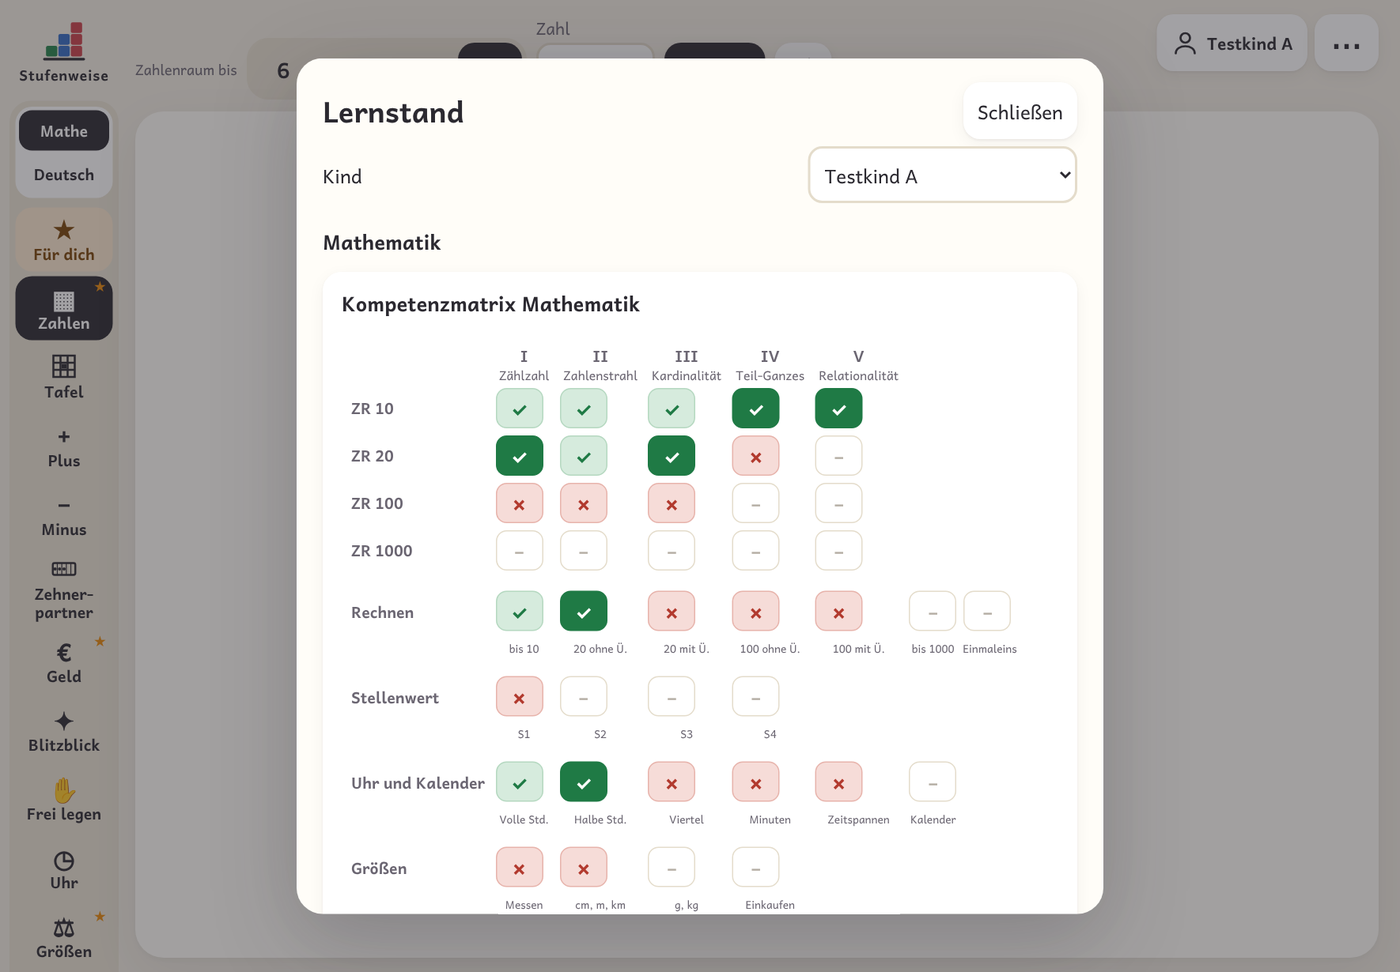
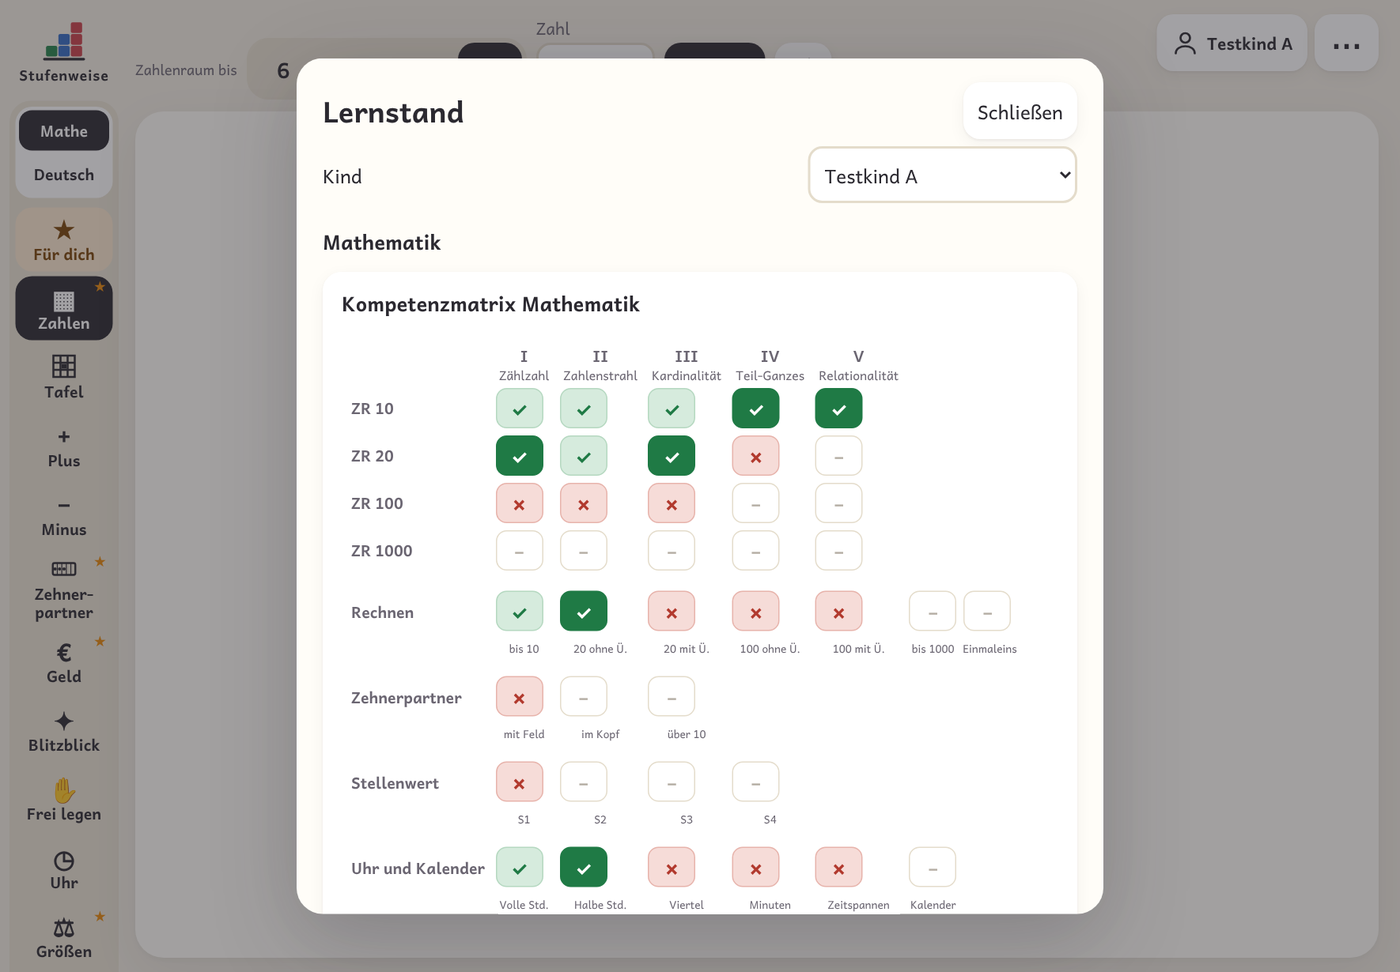
0.21.0: Zehnerpartner im Test und Lernstand, Arbeitsblatt-Einstellungen merken
- Zehnerpartner Z1–Z3 als eigene Zeile im Lernstand: im Mathe-Test (Teil 1)
  geprüft, solange R3 nicht sicher ist; R3 erreicht → Zehnerpartner abgeleitet
  erreicht. Förderzone, Material-Weg, ILEB-Text, Lernlandkarte, Bericht,
  Wiederholungstest und geführte Oberfläche kennen den neuen Bereich.
- Arbeitsblätter: Einstellungen bleiben nach dem Neuladen (ohne Kind).
- Förderzone R1–R3: Zehnerpartner und Rechnen über die 10 als Chips
  „Passend zur Förderzone“ (ohne Doppelungen).
- Selbst zeichnen bei Plus/Minus: immer Zwanzigerfeld, auch bis 10.
- Zehnerpartner-Blatt: „Verbinde die Zehnerpartner“ statt der Pfeil-Aufgabe.
- Rechnen über die 10, gemischt: je ein Beispiel für Plus und Minus.
- Hilfe: Hinweis „Gemeinsam ausprobieren“ stand unter jedem Hilfetext, steht
  jetzt beim Material in Mathe; „Schüler*innen“ in Hilfe und README.
- Tests: kinder_sim beantwortet jetzt auch Hundertertafel-Aufgaben (vorher
  blieb die Simulation dort hängen); arbeitsblatt_optionen prüft Merken und
  Förderzonen-Chips. Anleitung und Bilder aktualisiert.

Claude-Session: https://claude.ai/code/session_01Efzymwe9mfSJtZKYkQQKXW

diff --git a/tests/arbeitsblatt_optionen.py b/tests/arbeitsblatt_optionen.py
@@ -37,21 +37,23 @@ async def main():
             const d=new DOMParser().parseFromString(buildSheet().html,'text/html'); const sols=[...d.querySelectorAll('.sol li')].map(l=>l.textContent);
             [...d.querySelectorAll('.ab-task')].forEach((x,i)=>{ const rows=[...x.querySelectorAll('.ab-row')].map(r=>r.textContent.replace(/\\s+/g,' ').trim());
               const want=rows.map(r=>{let m; if(m=r.match(/^(\\d+) \\+ = 10$/)) return 10-m[1]; if(m=r.match(/^\\+ (\\d+) = 10$/)) return 10-m[1]; if(m=r.match(/^10 = (\\d+) \\+$/)) return 10-m[1]; if(m=r.match(/^10 − (\\d+) =$/)) return 10-m[1]; if(m=r.match(/^(\\d+)→/)) return 10-m[1]; return 'X'+r;});
-              const got=String(sols[i]).split('; ').map(Number); if(want.join()!==got.join()) out.push(rows.join('|')+' = '+sols[i]);
-              const o=x.querySelectorAll('.ab-opt'); if(o.length && ![...o].some(e=>+e.textContent===got[0])) out.push('Partner fehlt in Auswahl: '+rows);});}
+              const got=String(sols[i]).split('; ').map(Number);
+              const mt=x.querySelector('.ab-match'); if(mt){ const L=[...mt.querySelectorAll('.l')].map(e=>+e.textContent), R=[...mt.querySelectorAll('.r')].map(e=>+e.textContent);
+                if(L.length!==3 || L.some(l=>!R.includes(10-l)) || String(sols[i])!==L.map(l=>l+' – '+(10-l)).join('; ')) out.push('Verbinden falsch: '+L+' / '+R+' = '+sols[i]); return; }
+              if(want.join()!==got.join()) out.push(rows.join('|')+' = '+sols[i]);});}
             return out}""")
         print('Zehnerpartner falsch:', bad[:5])
         if bad: errs.append(f'Zehnerpartner: {len(bad)} falsch')
 
-        # 4. Über die 10: Zerlegung stimmt, Beispiel ausgefüllt, nur das erste
+        # 4. Über die 10: Zerlegung stimmt, Beispiel ausgefüllt: je Rechenart genau die erste Aufgabe
         bad = await pg.evaluate("""()=>{const out=[];for(const wop of ['add','sub','both'])for(let k=0;k<20;k++){Object.assign(app.sheet,{topic:'M:ueber10',wop,draw:false,mat:true,n:8,sol:true});
-            const d=new DOMParser().parseFromString(buildSheet().html,'text/html'); const ts=[...d.querySelectorAll('.ab-task')];
+            const d=new DOMParser().parseFromString(buildSheet().html,'text/html'); const ts=[...d.querySelectorAll('.ab-task')]; const seenOp=new Set();
             ts.forEach((x,i)=>{const sp=[...x.querySelector('.ab-ast').children].filter(c=>c.tagName!=='svg').map(c=>c.textContent.trim());
               const [a,o,bb]=[+sp[0],sp[1],+sp[2]]; const ex=x.querySelectorAll('.bsp').length;
-              if(i===0 && ex!==4) out.push('Beispiel nicht ausgefüllt'); if(i>0 && ex) out.push('Beispiel doppelt');
+              const firstOp=!seenOp.has(o); seenOp.add(o); if(firstOp && ex!==4) out.push('Beispiel nicht ausgefüllt'); if(!firstOp && ex) out.push('Beispiel doppelt');
               if(o==='+' && !(a<10 && a+bb>10)) out.push('kein Übergang '+a+o+bb); if(o==='−' && !(a>10 && a-bb<10)) out.push('kein Übergang '+a+o+bb);
               if(wop==='add'&&o!=='+'||wop==='sub'&&o!=='−') out.push('falsche Rechenart');
-              if(i===0){ const s=sp.slice(6).filter(v=>v!=='+'&&v!=='−'&&v!=='='); const [p,r,res]=s.map(Number); const ok=o==='+'?(a+p===10&&p+r===bb&&res===a+bb):(a-p===10&&p+r===bb&&res===a-bb); if(!ok) out.push('Beispiel falsch '+sp.join(' ')); }});}
+              if(ex){ const s=sp.slice(6).filter(v=>v!=='+'&&v!=='−'&&v!=='='); const [p,r,res]=s.map(Number); const ok=o==='+'?(a+p===10&&p+r===bb&&res===a+bb):(a-p===10&&p+r===bb&&res===a-bb); if(!ok) out.push('Beispiel falsch '+sp.join(' ')); }});}
             return out}""")
         print('Über die 10 falsch:', bad[:5])
         if bad: errs.append(f'Über die 10: {len(bad)} Fehler')
@@ -84,5 +86,26 @@ async def main():
         print('Auswahl Materialbilder', st, st2)
         if st != [True, True] or st2[0]: errs.append(f'Auswahl Materialbilder: {st} {st2}')
         await pg.evaluate("app.sheet.mat=true; app.sheet.draw=false")
+
+        # 8. Einstellungen bleiben nach dem Neuladen
+        await pg.evaluate("app.sheet.topic='M:minus'; renderSheets()"); await pg.wait_for_timeout(300)
+        await pg.check('#sh-gross'); await pg.select_option('#sh-matm', 'zeichnen'); await pg.wait_for_timeout(300)
+        await pg.reload(); await pg.wait_for_timeout(600)
+        st = await pg.evaluate("[app.sheet.topic, app.sheet.gross, app.sheet.draw, app.sheet.pid]")
+        print('nach Neuladen', st)
+        if st[:3] != ['M:minus', True, True]: errs.append(f'Einstellungen nicht gemerkt: {st}')
+        await pg.evaluate("localStorage.removeItem('stufenweise.blatt')")
+
+        # 9. Förderzone R3: Chips Zehnerpartner und Rechnen über die 10
+        await pg.evaluate("""(()=>{const p={id:'p_z',name:'Ida',created:Date.now()};data.profiles.push(p);selectProfile(p.id);
+            for(const [k,s] of [['R|R2','erreicht'],['R|R3','nicht'],['Z|Z1','erreicht'],['Z|Z2','erreicht'],['Z|Z3','nicht']]) setCell(p.id,k,{status:s,quelle:'test',sum:'x'}); inferCells(p.id,'M'); openSheets('p_z');})()""")
+        await pg.wait_for_timeout(500)
+        chips = await pg.evaluate("[...document.querySelectorAll('.sh-zones button')].map(b=>[b.textContent, b.dataset.shtopic || zoneToSheet(b.dataset.shzone).topic])")
+        print('Chips', chips)
+        tops = [c[1] for c in chips]
+        for want in ['M:zehnerpartner', 'M:ueber10']:
+            if tops.count(want) != 1: errs.append(f'Chip {want}: {tops.count(want)}-mal')
+        await pg.click('.sh-zones [data-shtopic="M:zehnerpartner"]'); await pg.wait_for_timeout(300)
+        if await pg.evaluate("app.sheet.topic") != 'M:zehnerpartner': errs.append('Chip wirkt nicht')
         print('ERR', errs); await b.close()
 asyncio.run(main())

diff --git a/tests/kinder_sim.py b/tests/kinder_sim.py
@@ -6,6 +6,8 @@ def math_skill(maxlvl_by_zr, smax, umax=2, rmax=0):
     def f(key):
         p=key.split('|')
         if p[0]=='R': return int(p[1][1]) <= rmax
+        if p[0]=='Z': return int(p[1][1]) <= max(1, rmax)
+        if p[0]=='H': return int(p[1][1]) <= smax + 1
         if p[0]=='G': return False
         if p[0]=='U': return int(p[1][1]) <= umax
         if p[0]=='M': return NL.index(p[2]) < maxlvl_by_zr.get(int(p[1]),0)
@@ -58,6 +60,14 @@ async def answer(pg, correct):
         await pg.evaluate(f"app.diag.resp={{guess:{int(v)}}}"); await pg.click('#d-next')
     elif t=='money':
         await pg.evaluate("(c)=>{const it=app.diag.items[app.diag.idx];let r=it.target,out=[];for(const d of it.denoms){while(r>=d){out.push(d);r-=d;}} if(!c) out.push(it.denoms[it.denoms.length-1]); app.diag.resp={items:out}}", correct); await pg.click('#d-next')
+    elif t=='board':
+        mode = await pg.evaluate("app.diag.items[app.diag.idx].mode")
+        if mode=='fill':
+            ins = pg.locator('#stage .dg-in, #controls .dg-in'); n = await ins.count()
+            for i,v in enumerate(it['fields']): await ins.nth(i).fill(str(v if correct else v+1))
+        else:
+            await pg.evaluate("(c)=>{const it=app.diag.items[app.diag.idx]; if(it.mode==='tap') app.diag.resp={sel:c?it.target:(it.target%100)+1}; else app.diag.resp={set:c?[...it.set]:[it.set[0]]};}", correct)
+        await pg.click('#d-next')
     elif t=='build':
         await pg.evaluate("(c)=>{const it=app.diag.items[app.diag.idx]; const ok=(Z,E)=>it.exact?(Z===it.exact[0]&&E===it.exact[1]):Z*10+E===it.target; let m=[0,0]; outer: for(let z=0;z<=10;z++)for(let e=0;e<=30;e++){ if(ok(z,e)===c){m=[z,e];break outer;} } app.diag.resp={mat:m}}", correct); await pg.click('#d-next')
     return it

diff --git a/docs/anleitung.md b/docs/anleitung.md
@@ -126,7 +126,7 @@ Unter **Zehnerpartner** (in der Leiste links nach Minus) üben die Kinder die Za
 - **im Kopf:** 7 + ☐ = 10, ☐ + 4 = 10, 10 − 6 = ☐ oder den passenden Partner antippen.
 - **über 10:** schrittweise über die 10 rechnen, zum Beispiel 8 + 5 = 8 + ☐ + ☐ = ☐ (erst bis 10, dann weiter), mit Zwanzigerfeld. Auch mit Minus: 13 − 5 = 13 − ☐ − ☐ = ☐.
 
-Die Zehnerpartner haben keine eigene Zeile im Lernstand. In der Statistik und der Wochenübersicht erscheinen sie als eigener Bereich. In der geführten Oberfläche sind sie sichtbar, solange Plus bis 10 oder bis 20 dran ist.
+Die Zehnerpartner haben im Lernstand eine eigene Zeile (Z1–Z3). Im Mathe-Test (Teil 1) werden sie geprüft, solange der Zehnerübergang bis 20 (R3) noch nicht sicher ist. Wer R3 schon kann, bekommt die Zehnerpartner als „abgeleitet erreicht“. Eine Förderzone bei den Zehnerpartnern führt in der Übung und bei den Arbeitsblättern direkt zur passenden Stufe. In der geführten Oberfläche sind sie sichtbar, wenn sie zur Förderzone gehören (vor dem ersten Test: solange Plus bis 10 oder bis 20 dran ist).
 
 ### Zwanzigerfeld beim Üben
 
@@ -199,13 +199,15 @@ In den Einstellungen unter **Allgemein → Beim Start** kannst du festlegen, das
 3. Bei Bedarf Thema, Zahlenraum und Material anpassen. Bei „Aufgaben“ füllt „Blatt füllen“ die Seite mit vollen Reihen; du kannst auch eine feste Zahl wählen. Rechts siehst du die Vorschau.
 4. **Drucken** tippen. „Lösungsblatt anhängen“ legt eine Seite mit den Lösungen dazu.
 
-**Materialbilder:** Bei Plus, Minus, Ergänzen, Einmaleins, Zehnerpartnern und „Rechnen über die 10“ wählst du „bei allen Aufgaben“, „1. Aufgabe vorgegeben, dann selbst zeichnen“ oder „ohne“. Beim Zeichnen zeigt die erste Aufgabe das Bild als Beispiel, bei Zahlen ab 20 in der Kurzschreibweise (| Zehner, • Einer). Die weiteren Aufgaben haben ein leeres Zwanzigerfeld oder ein Zeichenfeld.
+**Materialbilder:** Bei Plus, Minus, Ergänzen, Einmaleins, Zehnerpartnern und „Rechnen über die 10“ wählst du „bei allen Aufgaben“, „1. Aufgabe vorgegeben, dann selbst zeichnen“ oder „ohne“. Beim Zeichnen zeigt die erste Aufgabe das Bild als Beispiel, bei Zahlen ab 20 in der Kurzschreibweise (| Zehner, • Einer). Die weiteren Aufgaben haben ein leeres Zwanzigerfeld (bei Plus und Minus immer mit 20 Feldern, auch bis 10) oder ein Zeichenfeld.
 
 **Geld zählen:** Wähle „nur Euro“, „Euro und Cent“ (10-, 20- und 50-Cent-Münzen) oder „auf den Cent“ (auch 1, 2 und 5 Cent), wie beim Üben.
 
 **Einmaleins:** Unter „Reihen“ kreuzt du an, welche Reihen auf dem Blatt vorkommen. Die Auswahl steht auch in der Überschrift, zum Beispiel „Einmaleins: 3er- und 7er-Reihe“.
 
-**Zehnerpartner und Rechnen über die 10:** Zwei Blätter zum Zehnerübergang. „Zehnerpartner“ hat Aufgaben am Zehnerfeld (4 + ☐ = 10), ohne Bild (☐ + 9 = 10, 10 = 7 + ☐, 10 − 8 = ☐) und zum Einkreisen des Partners. „Rechnen über die 10“ zeigt den Rechenweg mit einem Zerlegungsast: 7 + 8 = ☐, darunter 7 + ☐ + ☐ = ☐. Die erste Aufgabe ist als Beispiel grau ausgefüllt. Unter „Rechenart“ wählst du Plus, Minus oder gemischt.
+**Zehnerpartner und Rechnen über die 10:** Zwei Blätter zum Zehnerübergang. „Zehnerpartner“ hat Aufgaben am Zehnerfeld (4 + ☐ = 10), ohne Bild (☐ + 9 = 10, 10 = 7 + ☐, 10 − 8 = ☐) und zum Verbinden der Partner. „Rechnen über die 10“ zeigt den Rechenweg mit einem Zerlegungsast: 7 + 8 = ☐, darunter 7 + ☐ + ☐ = ☐. Die erste Plus- und die erste Minus-Aufgabe sind als Beispiel grau ausgefüllt. Unter „Rechenart“ wählst du Plus, Minus oder gemischt. Bei den Förderzonen R1 bis R3 stehen beide Blätter auch unter „Passend zur Förderzone“.
+
+**Einstellungen bleiben:** Thema, Zahlenraum, große Aufgaben, Materialbilder und die anderen Einstellungen merkt sich das Gerät bis zum nächsten Mal. Das Kind wählst du jedes Mal neu.
 
 **Große Aufgaben:** Mit dem Häkchen „Große Aufgaben“ werden Zahlen, Schreibkästchen und Bilder etwa ein Drittel größer, dafür passen weniger Aufgaben auf das Blatt. Das hilft Kindern, die mehr Platz zum Schreiben, Streichen und Zeigen brauchen. Die Einstellung gilt auch, wenn du das Blatt ins Arbeitsheft übernimmst.
 

diff --git a/README.md b/README.md
@@ -1,6 +1,6 @@
 # Stufenweise
 
-Stufenweise ist eine kostenlose Lern-App für Schülerinnen und Schüler mit Förderschwerpunkt geistige Entwicklung. Sie orientiert sich am Bildungsplan GENT Baden-Württemberg 2022 und läuft im Browser, vor allem auf dem iPad.
+Stufenweise ist eine kostenlose Lern-App für Schüler*innen mit Förderschwerpunkt geistige Entwicklung. Sie orientiert sich am Bildungsplan GENT Baden-Württemberg 2022 und läuft im Browser, vor allem auf dem iPad.
 
 ### ▶ [Stufenweise jetzt öffnen](https://steffinuss.github.io/stufenweise/)
 
